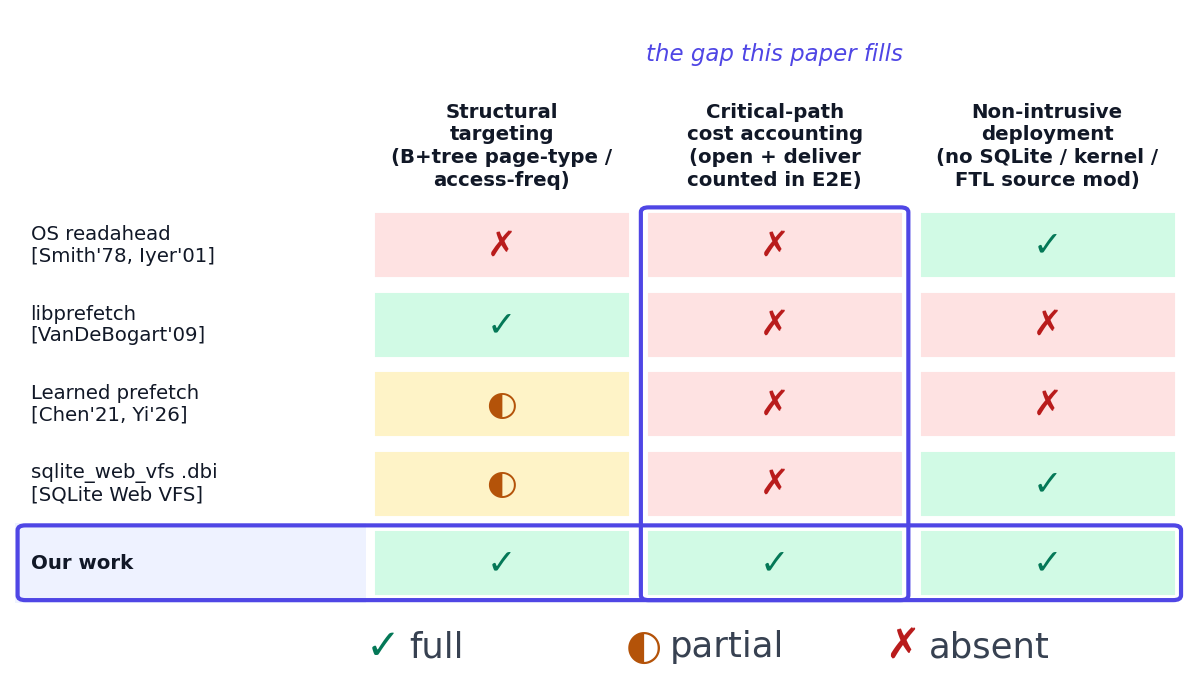
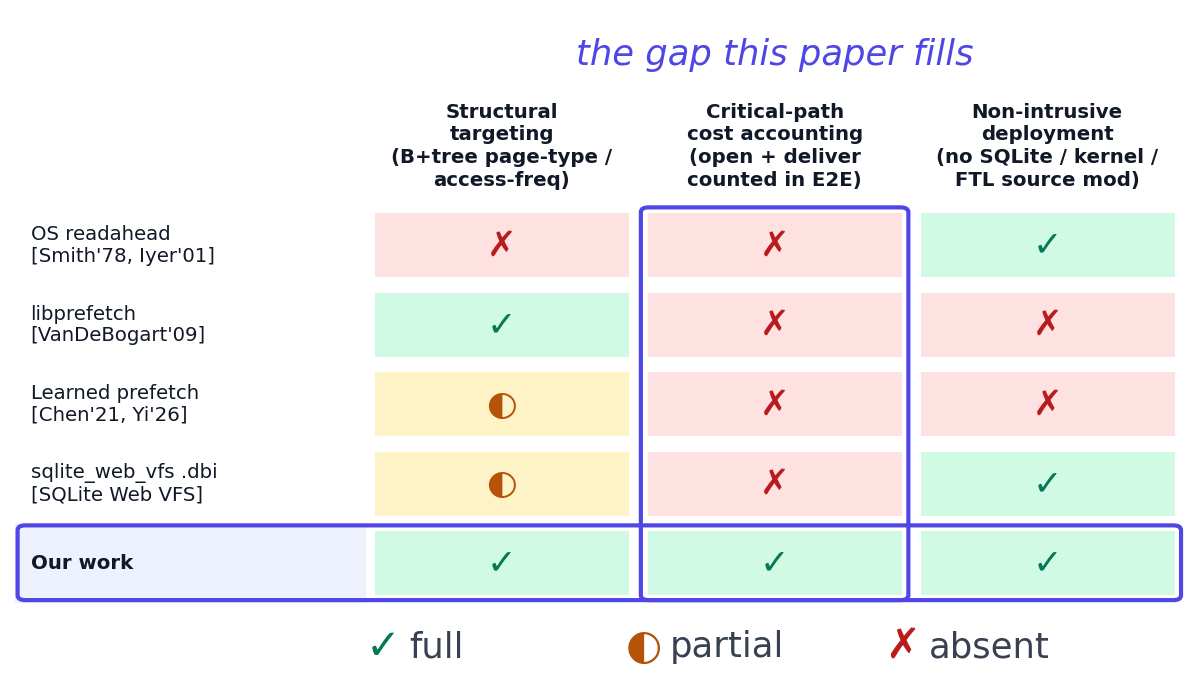
figs: match "the gap this paper fills" font size to the legend (11->17)
Align the callout annotation with the full/partial/absent legend labels for a
consistent type scale in fig18.

Changed region(s): [[0.4633, 0.0603, 0.8339, 0.1205]]

diff --git a/figures/18_capability_matrix.py b/figures/18_capability_matrix.py
@@ -108,7 +108,7 @@ def main():
                                 linewidth=2.0, zorder=3))
     ax.text(gap_x + col_w / 2, header_y + 1.9,
             "the gap this paper fills",
-            ha="center", va="center", fontsize=11, style="italic", color="#4f46e5")
+            ha="center", va="center", fontsize=17, style="italic", color="#4f46e5")
 
     # --- legend strip ---
     ly = -0.55